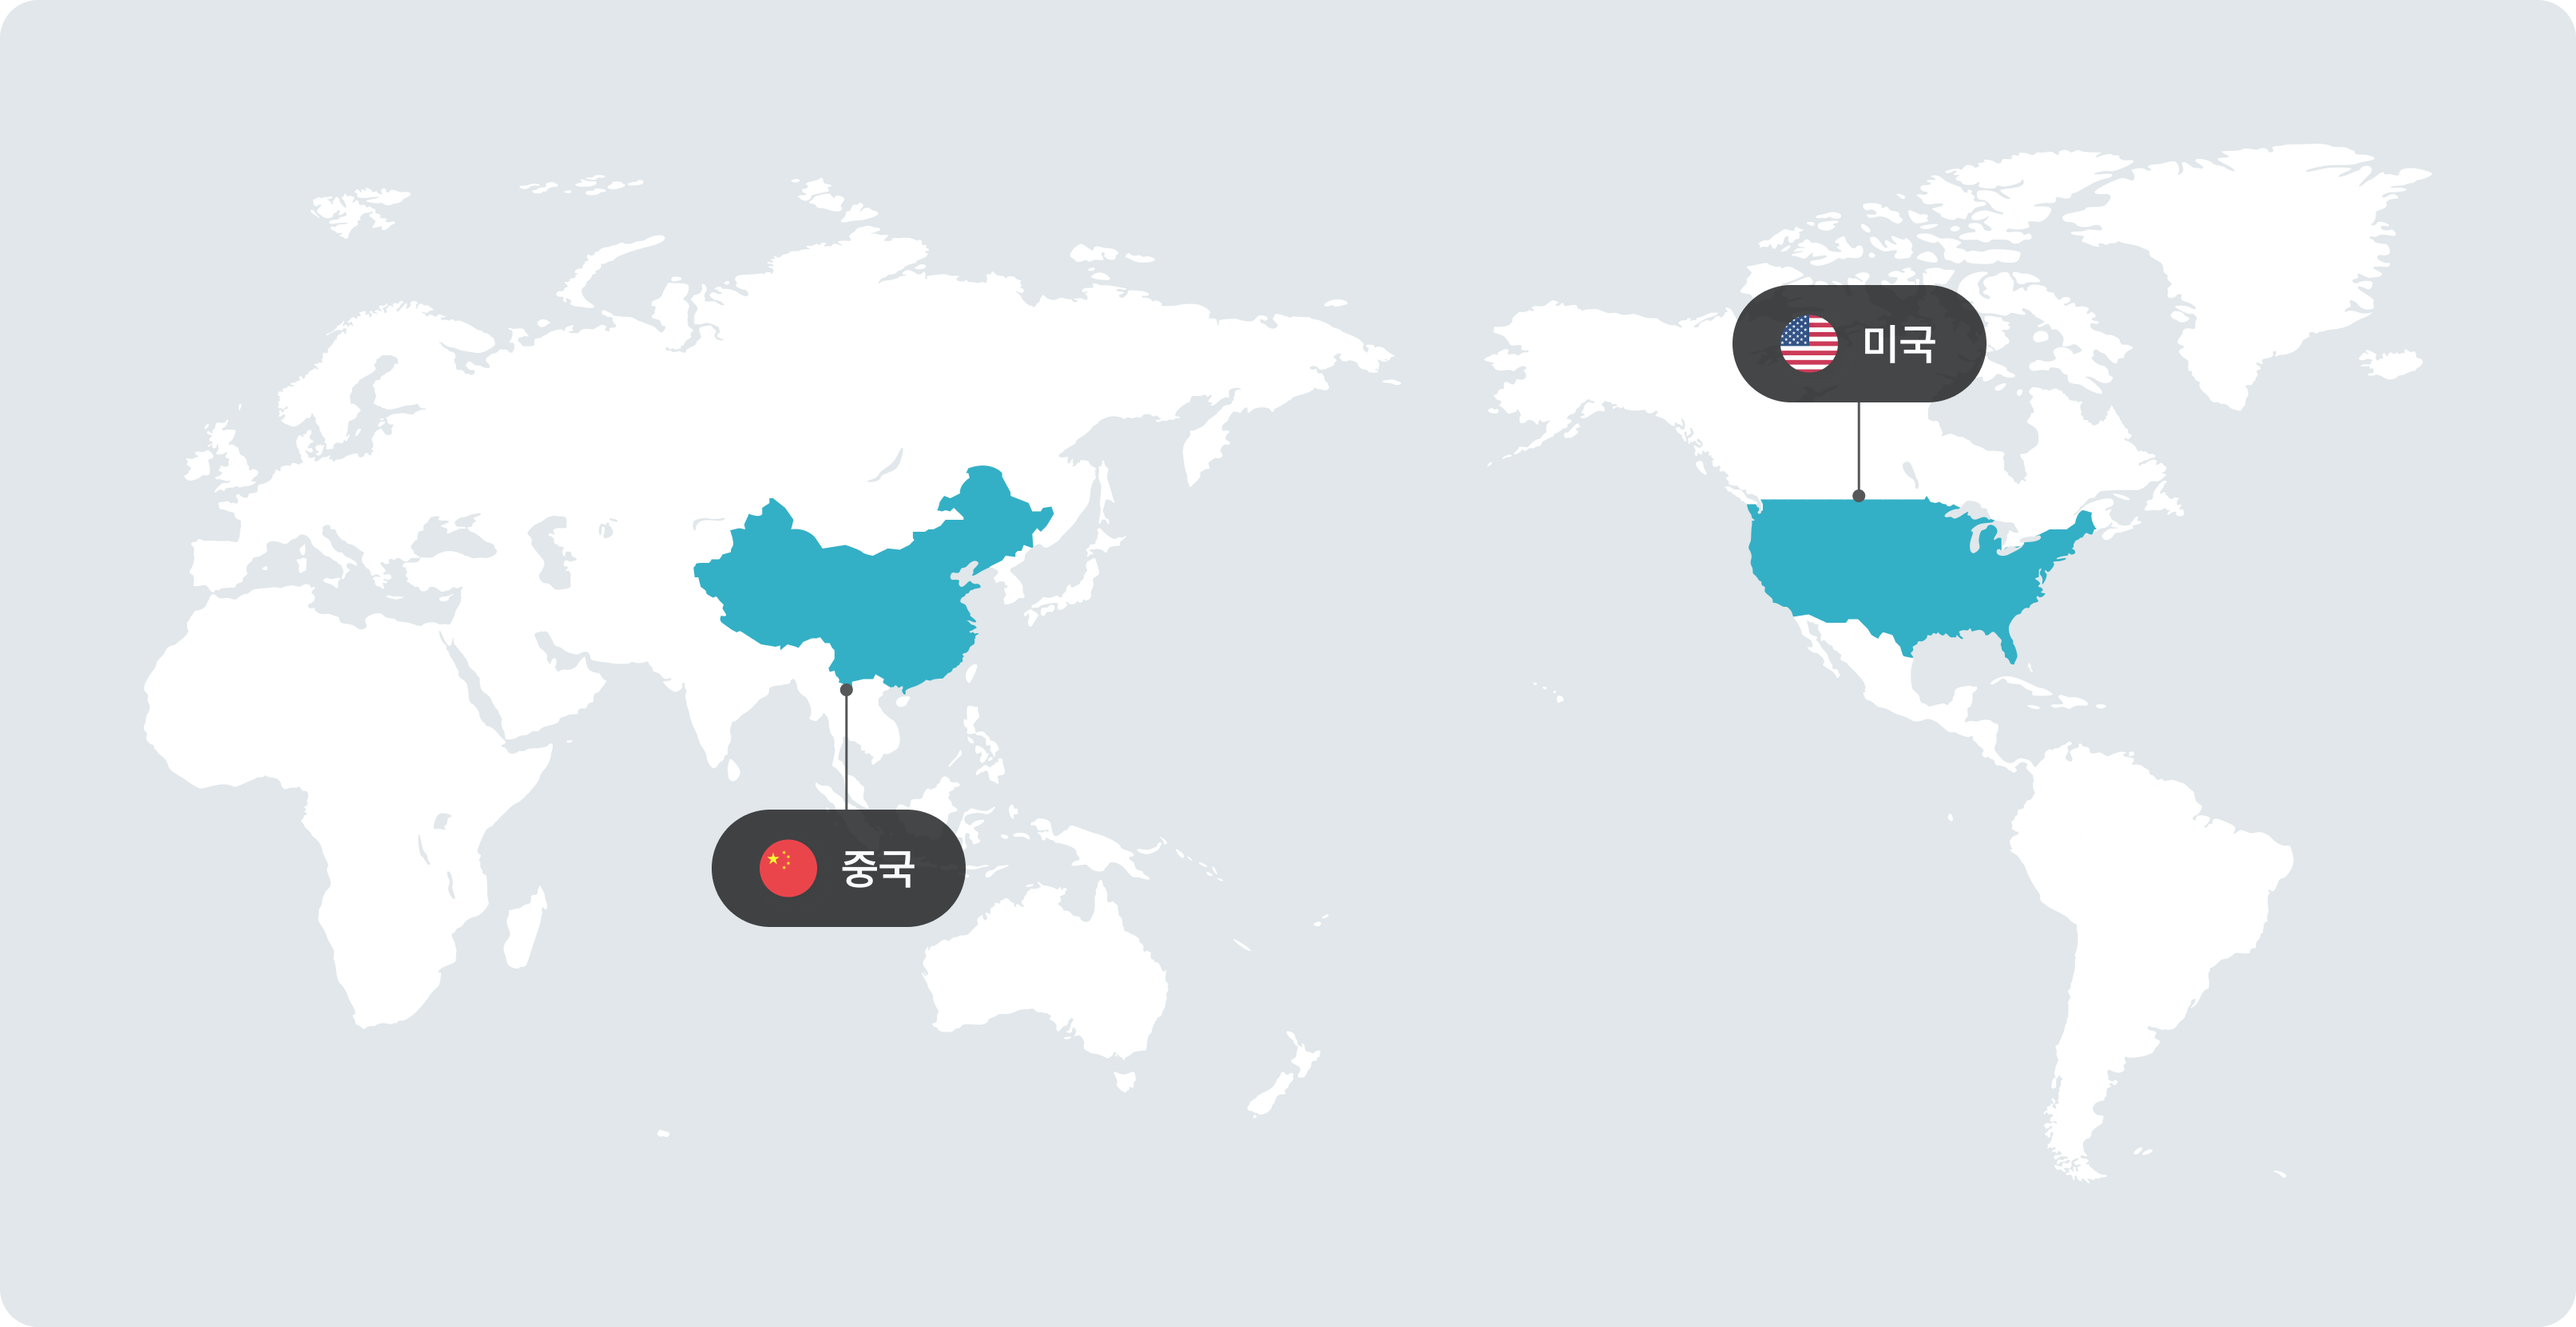
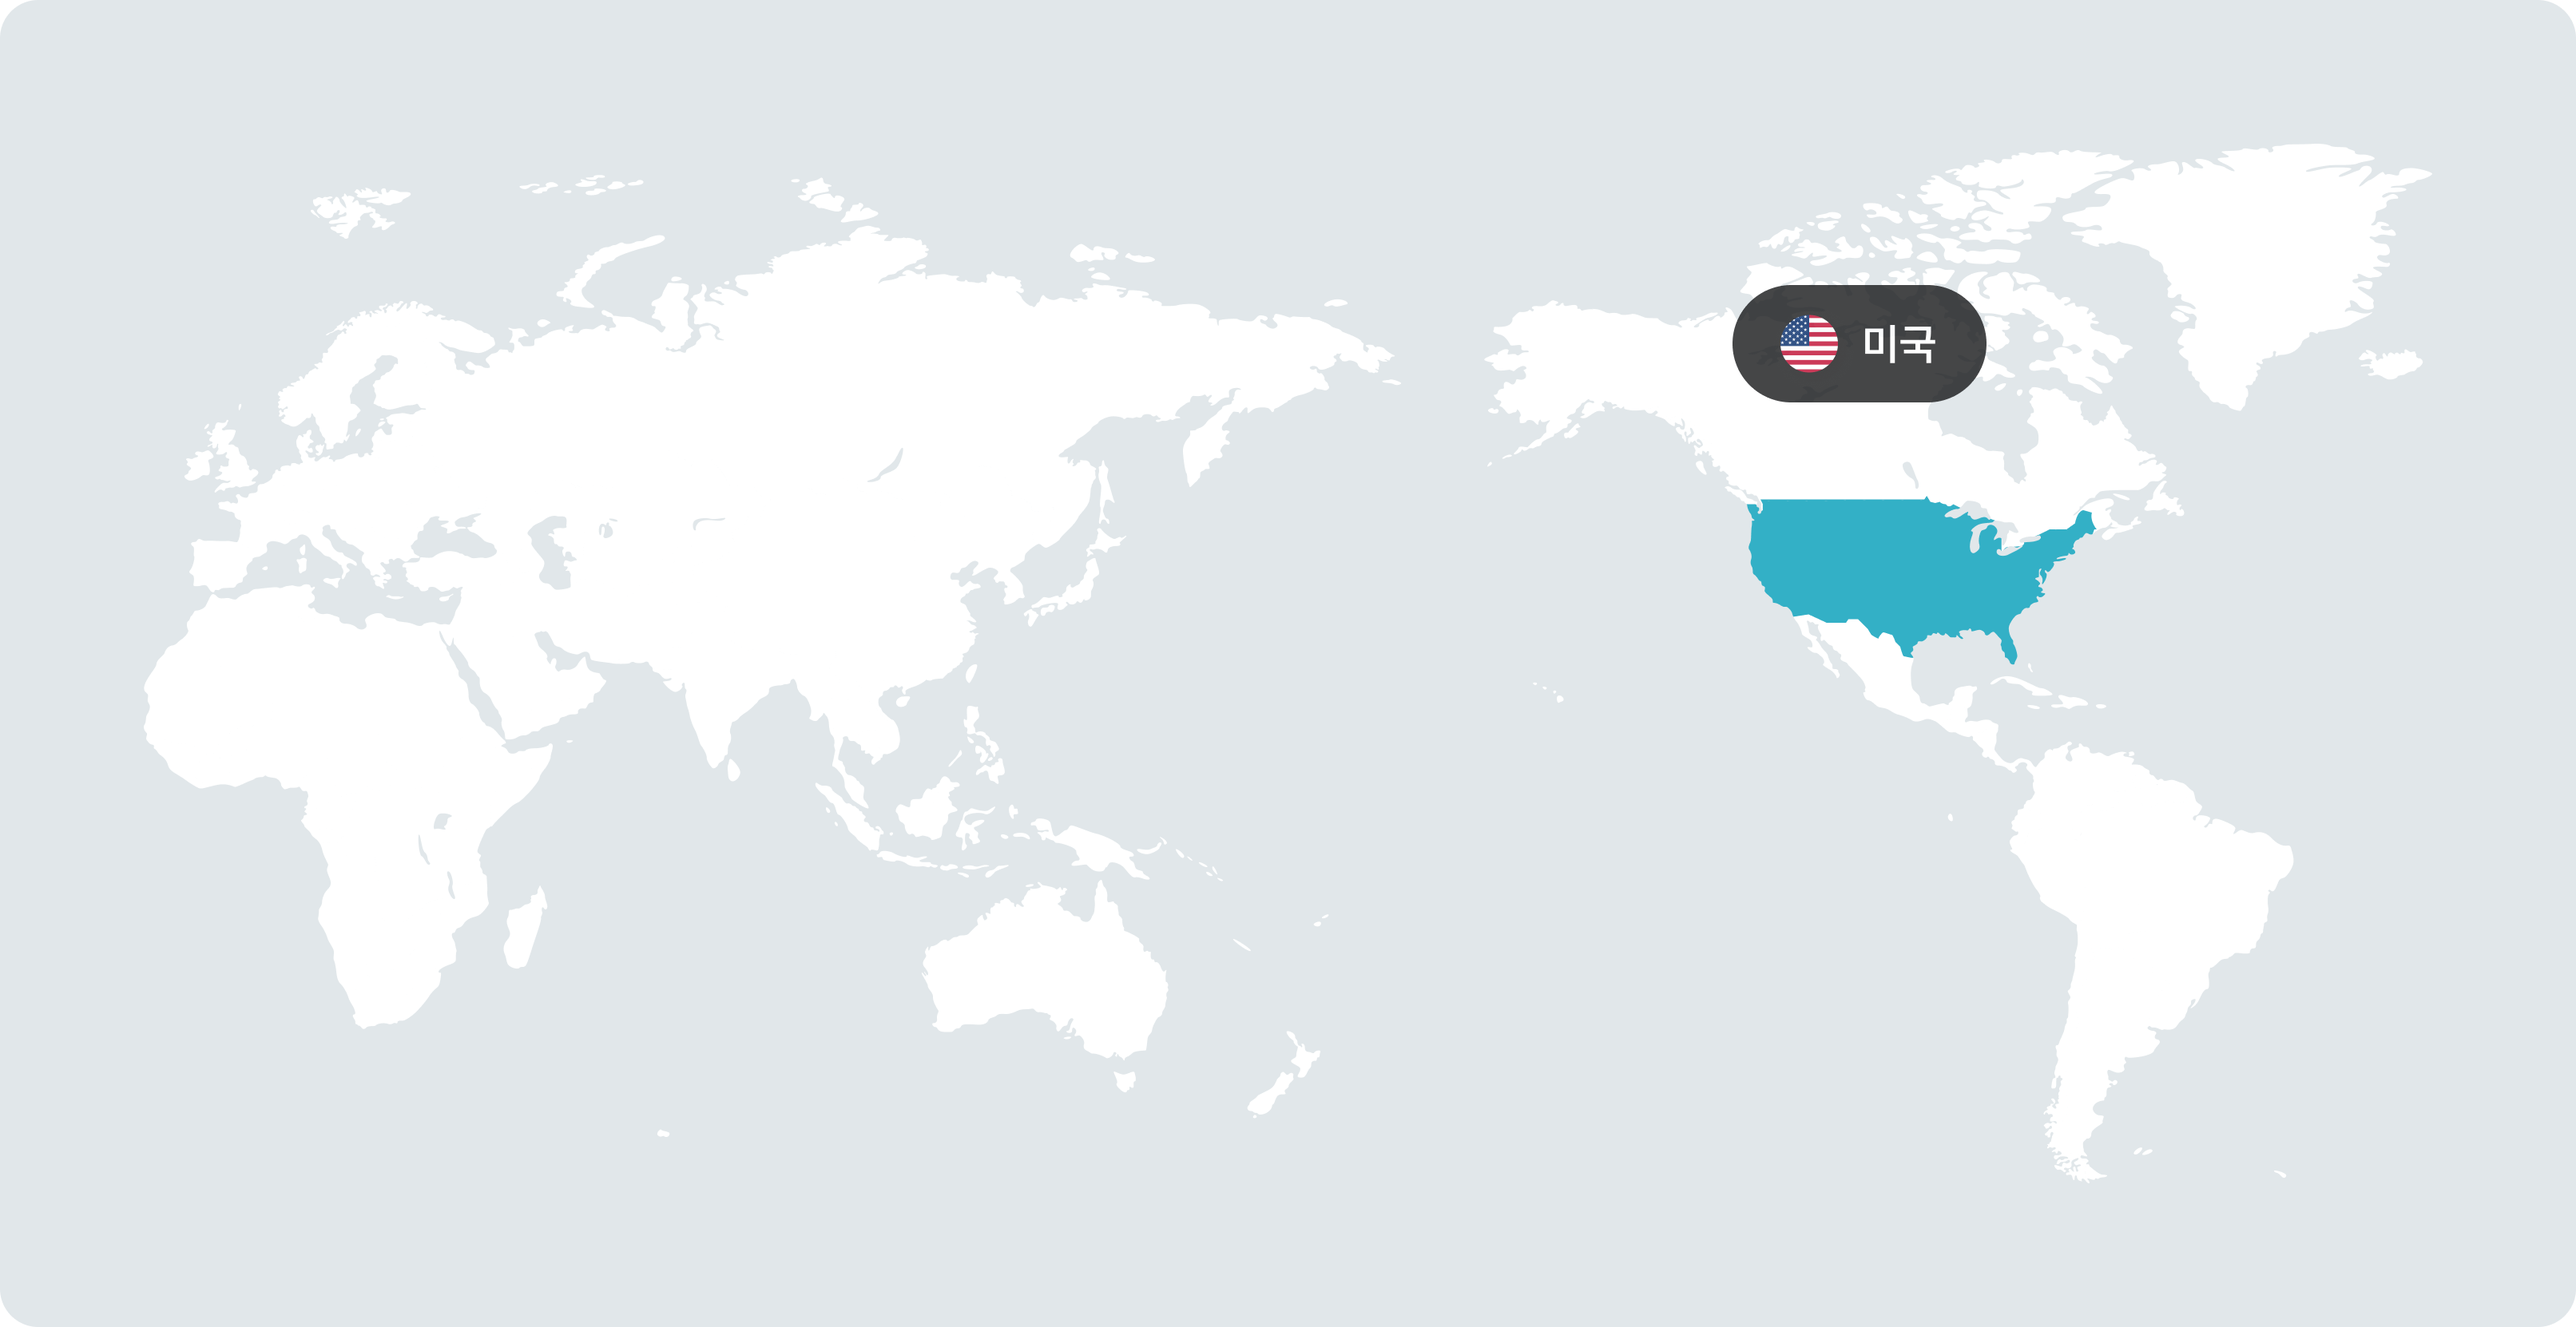
제품 > 소재 지도 변경 코멘트 반영

Changed region(s): [[0.2481, 0.3375, 0.4031, 0.5217], [0.2791, 0.583, 0.3721, 0.7058]]

diff --git a/public/src/pages/prod/prod_mtrl_ncm_01_mo.html b/public/src/pages/prod/prod_mtrl_ncm_01_mo.html
@@ -535,7 +535,7 @@
                                                 확보할 예정입니다. 이를 통해 지역별 고객 니즈에 맞춘 탄력적이고 신속한 배터리 공급을 지원합니다.
                                             </p>
                                             <div class="content-sect">
-                                                <img src="../../../inc/images/img/pmtl_map2_mo.png" alt="중국, 미국"> <!-- 08.27 / 지도 이미지 변경으로 인한 alt 값 변경 -->
+                                                <img src="../../../inc/images/img/pmtl_map2_mo.png" alt="미국"> <!-- 08.28 / 지도 이미지 변경으로 인한 alt 값 변경 -->
                                             </div>
                                         </div>
                                     </div>

diff --git a/public/src/pages/prod/prod_mtrl_ncm_01.html b/public/src/pages/prod/prod_mtrl_ncm_01.html
@@ -779,7 +779,7 @@
                                                 확보할 예정입니다. 이를 통해 지역별 고객 니즈에 맞춘 탄력적이고 신속한 배터리 공급을 지원합니다.
                                             </p>
                                             <div class="content-sect">
-                                                <img src="../../../inc/images/img/pmtl_map2.png" alt="중국, 미국"> <!-- 08.27 / 지도 이미지 변경으로 인한 alt 값 변경 -->
+                                                <img src="../../../inc/images/img/pmtl_map2.png" alt="미국"> <!-- 08.28 / 지도 이미지 변경으로 인한 alt 값 변경 -->
                                             </div>
                                         </div>
                                     </div>
